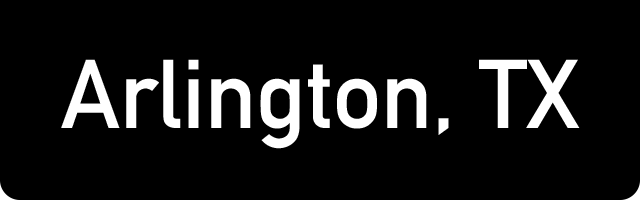
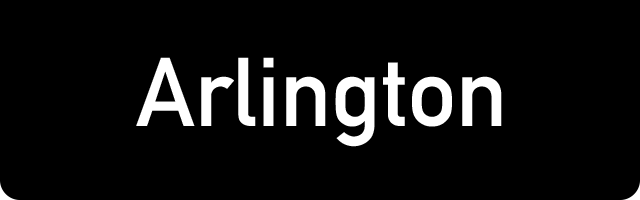
new footers and content updates

Changed region(s): [[0.0938, 0.27, 0.9062, 0.75]]

diff --git a/wwwroot/ds/index.html b/wwwroot/ds/index.html
@@ -46,7 +46,7 @@
       <div class="container" style="margin-top:16px;">
           <div class="row">
             <div class="col-sm-10 col-sm-offset-1 centered" style="text-align: center;" onclick="goto('arlington')">
-              <img src="/imgs/arlington.png" alt="Digital Seat" style="width:100%; max-width:480px;"/><br />
+              <img src="/imgs/arlington_main.png" alt="Digital Seat" style="width:100%; max-width:480px;"/><br />
               <img src="/imgs/arlington_footer.png" alt="Digital Seat" style="width:100%; max-width:480px; margin-bottom: 16px;"/>
             </div>
           </div>
@@ -282,7 +282,12 @@
     let offers = [
       { name: 'chappsburgers', image: '/imgs/ChappsBurgers.png', link:'https://mp.vibescm.com/c/grz6lg' },
       { name: 'ifly', image: '/imgs/ifly.png', link:'https://mp.vibescm.com/c/6sp94j' },
-      { name: 'pudges', image: '/imgs/pudges.png', link:'https://mp.vibescm.com/c/zkavvy' },
+      { 
+        name: 'pudges', 
+        image: '/imgs/pudges.png', 
+        link:'https://mp.vibescm.com/c/zkavvy',
+        content: 'Hall of Fame Catcher Iván “Pudge” Rodríguez brings his new pizza concept to open at Texas Live!. Pudge’s Pizza will welcome guests in a family-friendly environment, serving up signature pies created by Rodriguez with the freshest ingredients in mind.'
+      },
       { 
         name: 'att', 
         image: '/imgs/att.png', 
